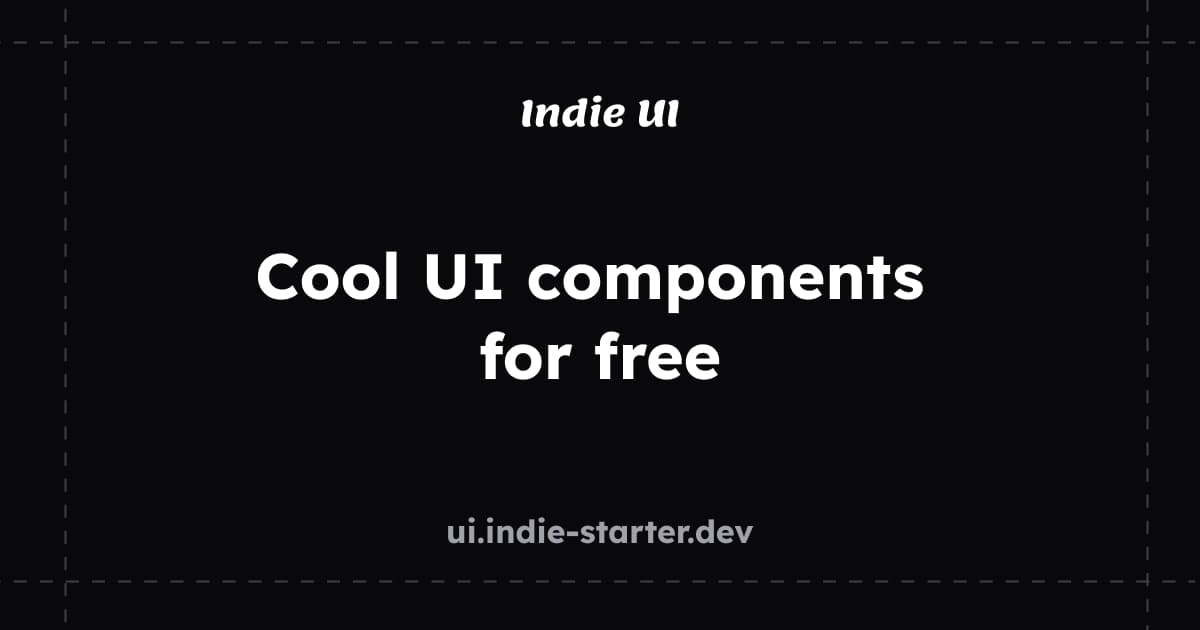
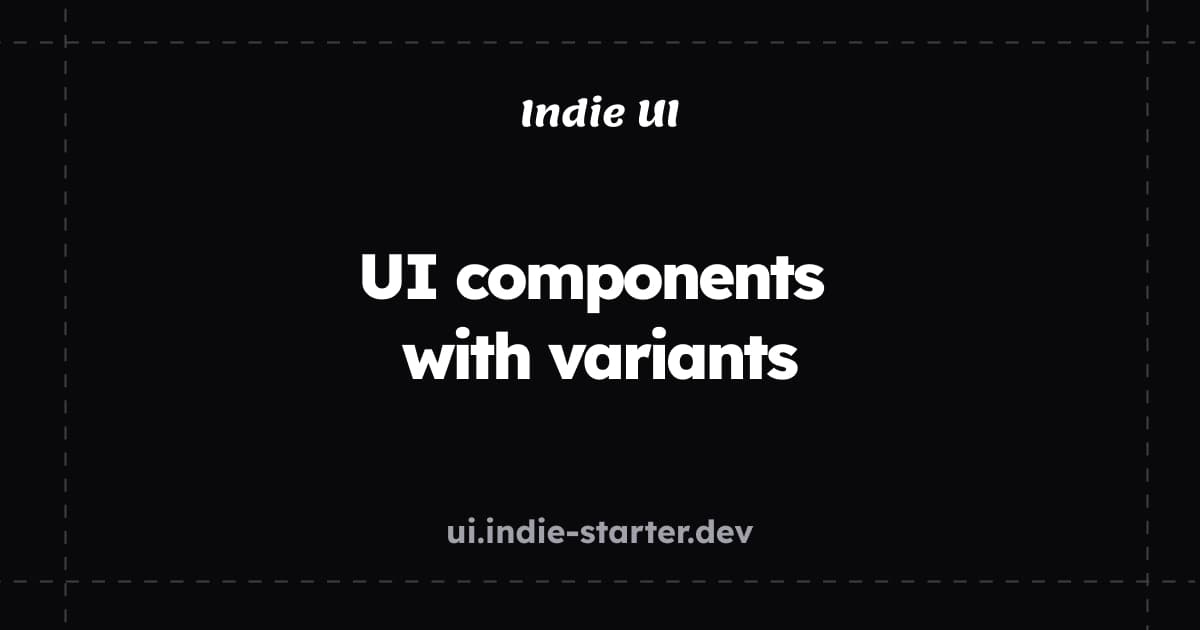
chore: change tagline

Changed region(s): [[0.2158, 0.3921, 0.7708, 0.6032]]

diff --git a/app/page.tsx b/app/page.tsx
@@ -5,10 +5,13 @@ import { FaGithub } from "react-icons/fa"
 export default function HomePage() {
   return (
     <main className="flex h-screen flex-col justify-center text-center">
-      <span className="mb-4 text-2xl font-bold">Indie UI</span>
-      <h1 className="text-xl sm:text-3xl md:text-4xl mb-6 font-semibold">
-        Cool UI components for free <br />
+      <span className="mb-5 text-2xl font-bold">Indie UI</span>
+      <h1 className="text-xl sm:text-3xl md:text-5xl mb-1 text-center font-bold">
+        UI components with variants
       </h1>
+      <p className="text-cneter mb-4">
+        Powered by <b>Tailwindcss</b>
+      </p>
       <div className="flex-row-center gap-4 mx-auto">
         <Button asChild>
           <Link href="/docs" className="text-lg font-semibold w-fit mx-auto">

diff --git a/configs.ts b/configs.ts
@@ -6,7 +6,7 @@ export const configs = {
     site: {
         name: Site_Name,
         description:
-            "Cool UI components for free",
+            "UI components with variants",
         siteUrl,
     },
     urls: {
